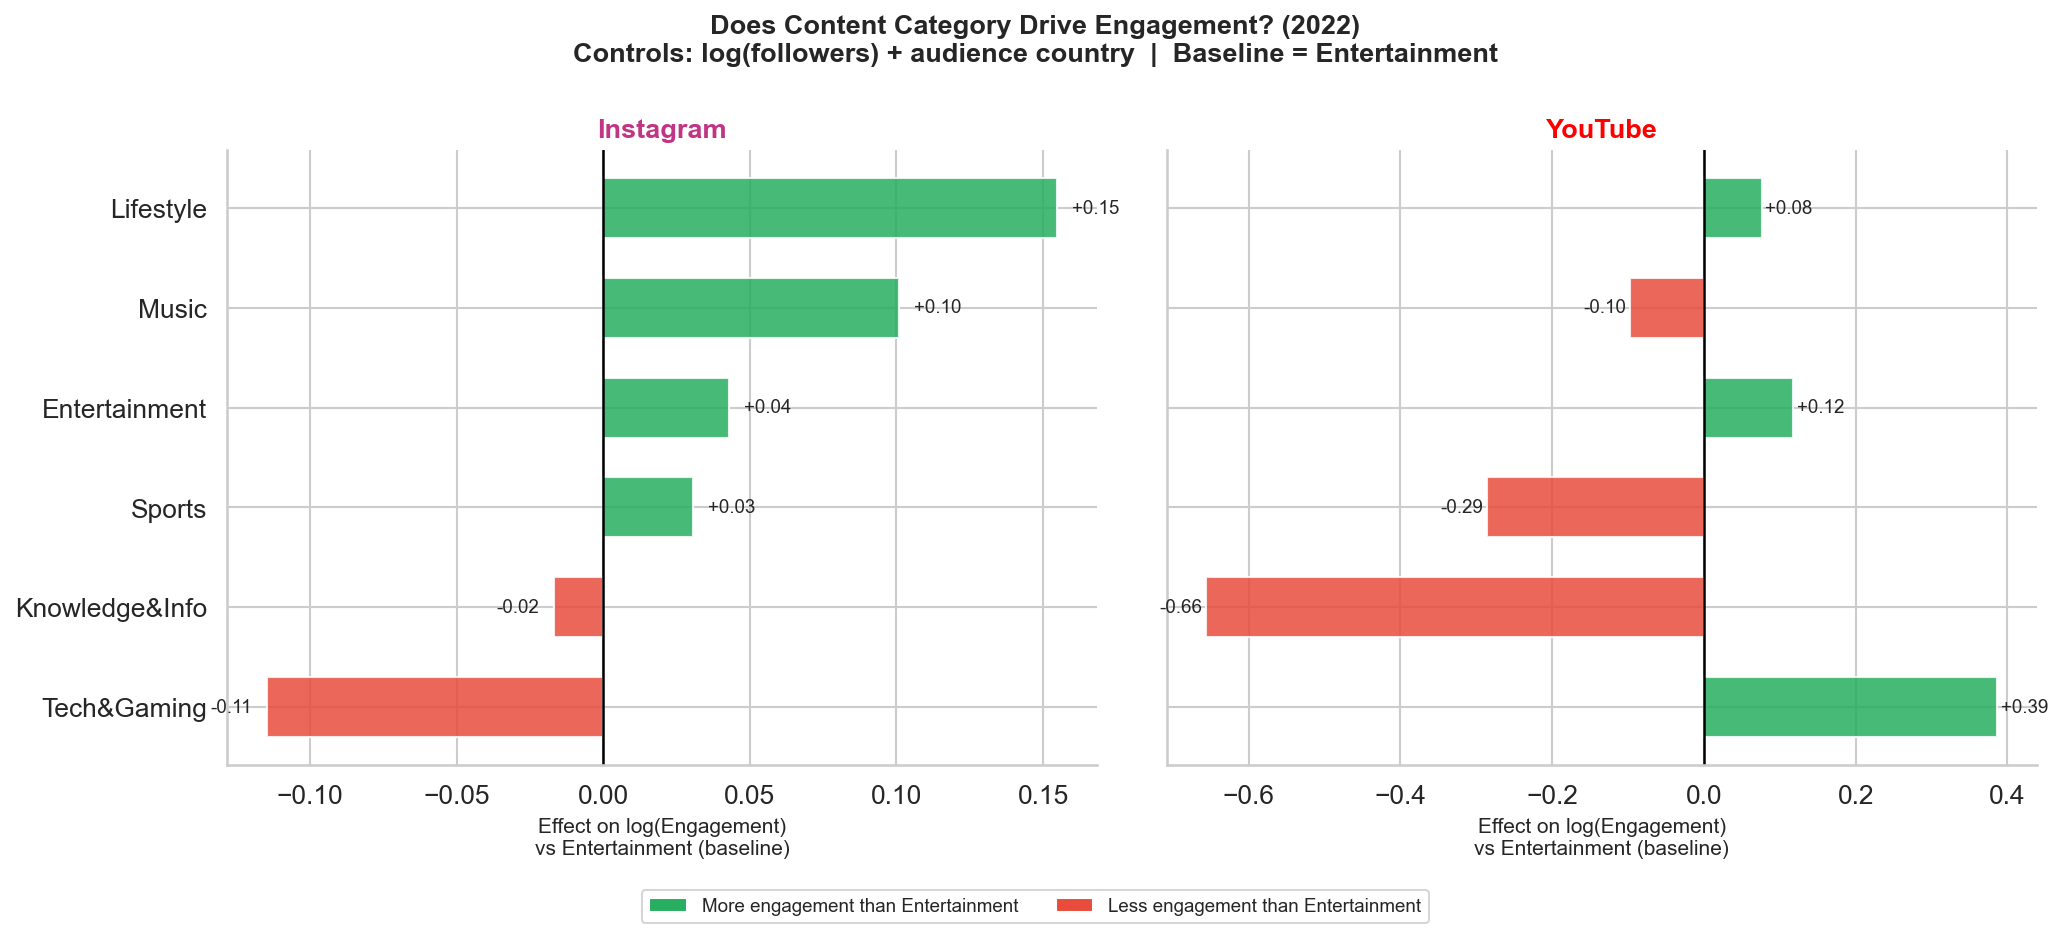
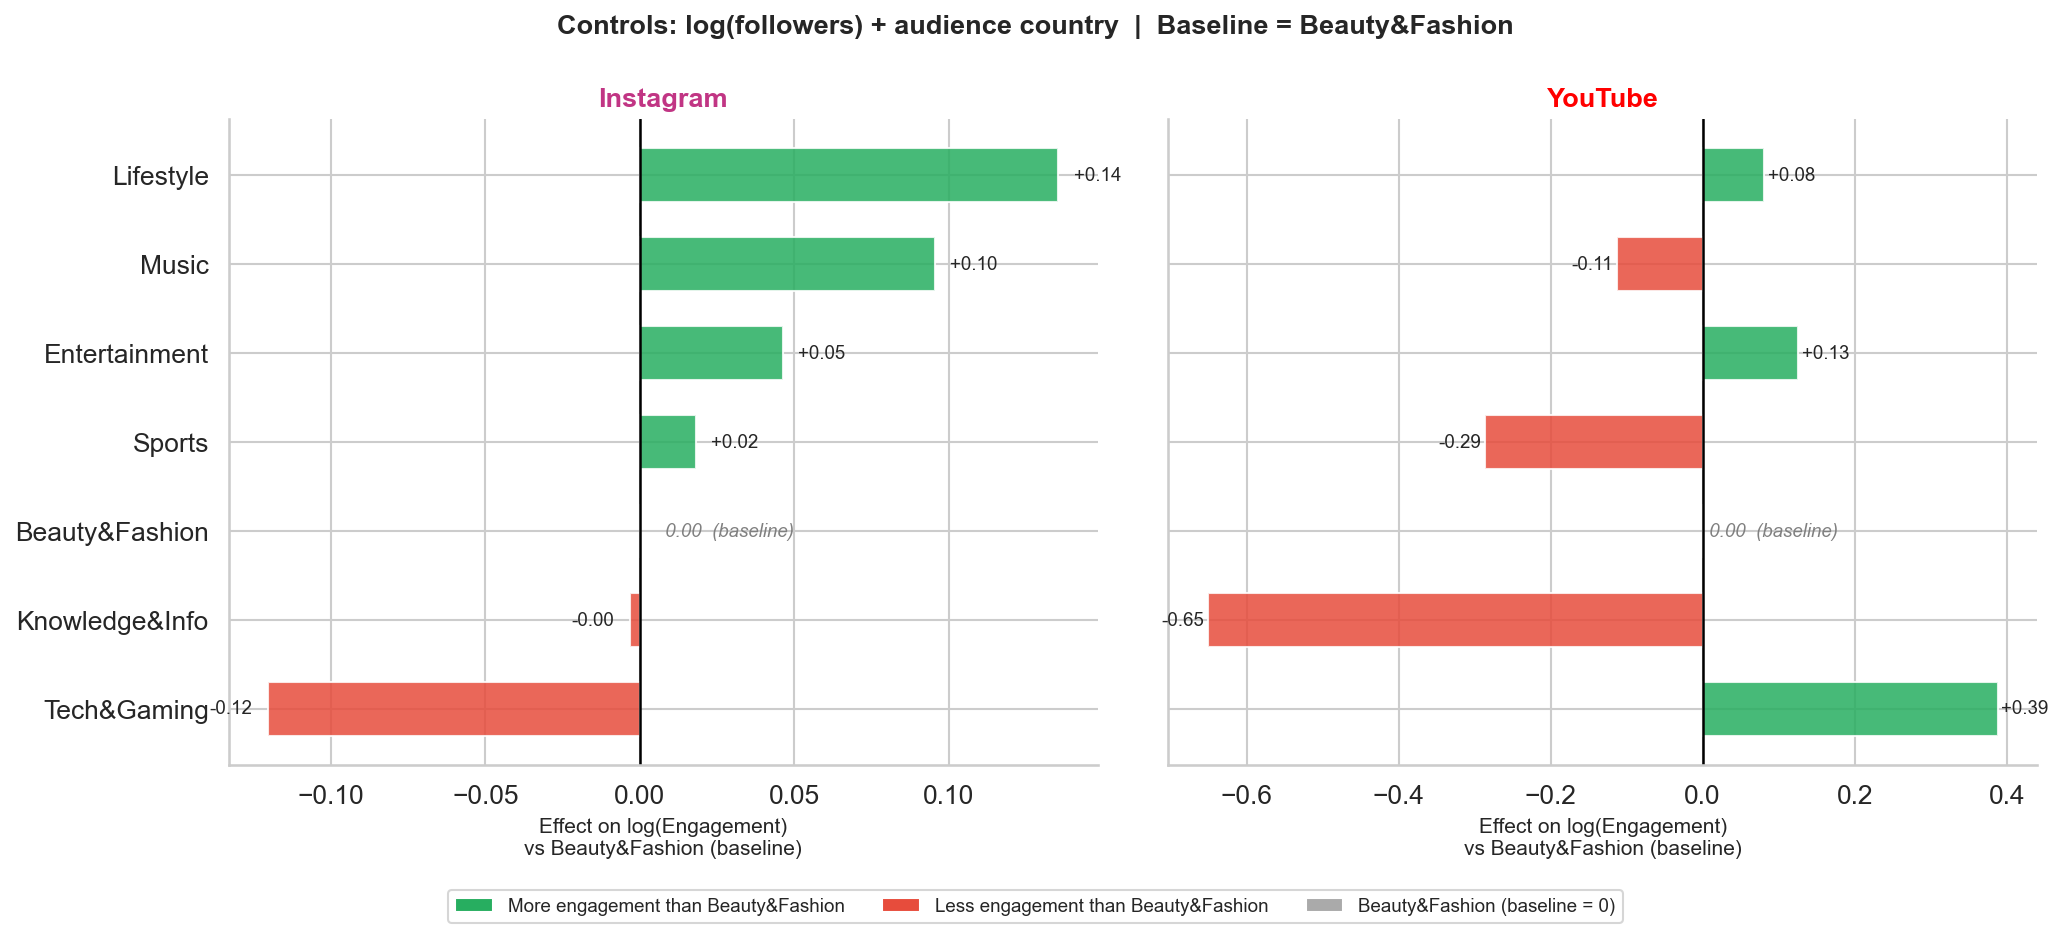
updated plots for rq1

diff --git a/Exploratory data analysis/rq1_engagement_analysis.py b/Exploratory data analysis/rq1_engagement_analysis.py
@@ -64,7 +64,7 @@ def sig_stars(p):
     if p < 0.05:  return "*"
     return "ns"
 
-def group_country(df, col, min_count=30):
+def group_country(df, col, min_count=10):
     counts = df[col].value_counts()
     keep = counts[counts >= min_count].index
     df = df.copy()
@@ -122,7 +122,7 @@ ols_rows = []
 for plat in ["Instagram","YouTube"]:
     sub = p1[p1["platform"] == plat]
     m = smf.ols(
-        "log_eng ~ log_fol + C(category_unified) + C(audience_country)",
+        "log_eng ~ log_fol + C(category_unified, Treatment('Beauty&Fashion')) + C(audience_country, Treatment('United States'))",
         data=sub).fit()
     ols_rows.append({
         "platform": plat,
@@ -184,7 +184,7 @@ for ax, row in zip(axes, ols_rows):
     ax.set_ylabel("Avg Engagement per Post" if plat=="Instagram" else "", fontsize=11)
 
 fig.suptitle(
-    "Does Follower Count Drive Engagement? (2022)\n"
+    # "Does Follower Count Drive Engagement? (2022)\n"
     "Each dot = one influencer  |  Line = OLS trend  |  β measures the strength",
     fontweight="bold", fontsize=13)
 plt.tight_layout()
@@ -241,7 +241,7 @@ cat_coefs = {}
 for r in ols_rows:
     plat, m = r["platform"], r["model"]
     coefs = {
-        k.replace("C(category_unified)[T.","").rstrip("]"): v
+        k.replace("C(category_unified, Treatment('Beauty&Fashion'))[T.","").rstrip("]"): v
         for k, v in m.params.items() if "category_unified" in k
     }
     cat_coefs[plat] = coefs
@@ -249,6 +249,8 @@ for r in ols_rows:
 coef_df = (pd.DataFrame(cat_coefs)
              .reindex([c for c in CAT_ORDER if c in pd.DataFrame(cat_coefs).index])
              .dropna(how="all").fillna(0))
+# add Beauty&Fashion row explicitly as 0 (it's the baseline)
+coef_df.loc["Beauty&Fashion"] = 0.0
 # sort by Instagram value
 coef_df = coef_df.sort_values("Instagram")
 savecsv(coef_df.round(4), "P1_category_coefficients.csv")
@@ -256,27 +258,34 @@ savecsv(coef_df.round(4), "P1_category_coefficients.csv")
 fig, axes = plt.subplots(1, 2, figsize=(14, 6), sharey=True)
 for ax, plat, color in zip(axes, ["Instagram","YouTube"], [IG_COL, YT_COL]):
     vals  = coef_df[plat]
-    bar_colors = ["#27ae60" if v >= 0 else "#e74c3c" for v in vals]
+    bar_colors = ["#aaaaaa" if idx == "Beauty&Fashion"
+                  else "#27ae60" if v > 0 else "#e74c3c"
+                  for idx, v in vals.items()]
     bars = ax.barh(coef_df.index, vals, color=bar_colors,
                    edgecolor="white", alpha=0.85, height=0.6)
     ax.axvline(0, color="black", linewidth=1.2)
-    for bar, val in zip(bars, vals):
-        xpos = val + 0.005 if val >= 0 else val - 0.005
-        ha   = "left" if val >= 0 else "right"
-        ax.text(xpos, bar.get_y() + bar.get_height()/2,
-                f"{val:+.2f}", va="center", ha=ha, fontsize=9)
+    for bar, (idx, val) in zip(bars, vals.items()):
+        if idx == "Beauty&Fashion":
+            ax.text(0.008, bar.get_y() + bar.get_height()/2,
+                    "0.00  (baseline)", va="center", ha="left", fontsize=9,
+                    color="gray", style="italic")
+        else:
+            xpos = val + 0.005 if val >= 0 else val - 0.005
+            ha   = "left" if val >= 0 else "right"
+            ax.text(xpos, bar.get_y() + bar.get_height()/2,
+                    f"{val:+.2f}", va="center", ha=ha, fontsize=9)
     ax.set_title(plat, fontweight="bold", fontsize=13, color=color)
-    ax.set_xlabel("Effect on log(Engagement)\nvs Entertainment (baseline)", fontsize=10)
+    ax.set_xlabel("Effect on log(Engagement)\nvs Beauty&Fashion (baseline)", fontsize=10)
     ax.axvline(0, color="gray", linewidth=0.8, zorder=0)
 
-# add green/red legend
-legend_els = [mpatches.Patch(facecolor="#27ae60", label="More engagement than Entertainment"),
-              mpatches.Patch(facecolor="#e74c3c", label="Less engagement than Entertainment")]
-fig.legend(handles=legend_els, loc="lower center", ncol=2,
+# legend
+legend_els = [mpatches.Patch(facecolor="#27ae60", label="More engagement than Beauty&Fashion"),
+              mpatches.Patch(facecolor="#e74c3c", label="Less engagement than Beauty&Fashion"),
+              mpatches.Patch(facecolor="#aaaaaa", label="Beauty&Fashion (baseline = 0)")]
+fig.legend(handles=legend_els, loc="lower center", ncol=3,
            fontsize=9, frameon=True, bbox_to_anchor=(0.5, -0.04))
 fig.suptitle(
-    "Does Content Category Drive Engagement? (2022)\n"
-    "Controls: log(followers) + audience country  |  Baseline = Entertainment",
+    "Controls: log(followers) + audience country  |  Baseline = Beauty&Fashion",
     fontweight="bold", fontsize=13)
 plt.tight_layout()
 savefig("P1_3_category_coef_2022.png")
@@ -285,16 +294,18 @@ savefig("P1_3_category_coef_2022.png")
 print("  P1-Fig4: country coefficients …")
 
 def extract_country_coefs(model):
-    """Extract significant country coefficients from OLS model."""
+    """Extract all country coefficients (excl. Other) from OLS model."""
     coefs = {}
     for k, v in model.params.items():
         if "audience_country" not in k:
             continue
-        country = k.replace("C(audience_country)[T.","").rstrip("]")
+        country = k.split("[T.")[1].rstrip("]")
+        if country == "Other":
+            continue
         coefs[country] = {"coef": v, "pval": model.pvalues[k]}
     df = pd.DataFrame(coefs).T
-    df = df[df["pval"] < 0.05]
-    df = df[df.index != "Other"]
+    # add US baseline row explicitly
+    df.loc["United States"] = {"coef": 0.0, "pval": 1.0}
     return df.sort_values("coef")
 
 cc_ig = extract_country_coefs(ols_rows[0]["model"])
@@ -303,40 +314,48 @@ cc_yt = extract_country_coefs(ols_rows[1]["model"])
 savecsv(cc_ig.round(4), "P1_country_coefficients_instagram.csv")
 savecsv(cc_yt.round(4), "P1_country_coefficients_youtube.csv")
 
-# reference country note: statsmodels drops the first alphabetical country
-# all coefficients are relative to that baseline — negative = lower than baseline
-ref_note = ("All values relative to the reference country\n"
-            "(first alphabetically, auto-chosen by regression).\n"
-            "Negative = lower engagement than that baseline.\n"
-            "Positive = higher engagement than that baseline.")
-
-fig, axes = plt.subplots(1, 2, figsize=(18, 7))
-for ax, cc_df, row, plat in zip(axes, [cc_ig, cc_yt], ols_rows, ["Instagram","YouTube"]):
+fig, axes = plt.subplots(1, 2, figsize=(18, 8))
+for ax, cc_df, plat in zip(axes, [cc_ig, cc_yt], ["Instagram","YouTube"]):
     color = PALETTE[plat]
-    bar_colors = ["#27ae60" if v >= 0 else "#e74c3c" for v in cc_df["coef"]]
+    bar_colors = ["#aaaaaa" if idx == "United States"
+                  else "#27ae60" if v > 0 else "#e74c3c"
+                  for idx, v in cc_df["coef"].items()]
     bars = ax.barh(cc_df.index, cc_df["coef"], color=bar_colors,
                    edgecolor="white", alpha=0.88, height=0.65)
     ax.axvline(0, color="black", linewidth=1.2)
 
-    for bar, val in zip(bars, cc_df["coef"]):
-        xpos = val + 0.005 if val >= 0 else val - 0.005
-        ha   = "left" if val >= 0 else "right"
-        ax.text(xpos, bar.get_y() + bar.get_height()/2,
-                f"{val:+.2f}", va="center", ha=ha, fontsize=8.5)
+    for bar, (idx, val) in zip(bars, cc_df["coef"].items()):
+        pval = cc_df.loc[idx, "pval"]
+        star = "***" if pval < 0.001 else "**" if pval < 0.01 else "*" if pval < 0.05 else ""
+        if idx == "United States":
+            ax.text(0.005, bar.get_y() + bar.get_height()/2,
+                    "0.00  (baseline)", va="center", ha="left",
+                    fontsize=8.5, color="gray", style="italic")
+        else:
+            xpos = val + 0.005 if val >= 0 else val - 0.005
+            ha   = "left" if val >= 0 else "right"
+            label = f"{val:+.2f} {star}".strip()
+            ax.text(xpos, bar.get_y() + bar.get_height()/2,
+                    label, va="center", ha=ha, fontsize=8.5)
 
     ax.set_title(plat, fontweight="bold", fontsize=13, color=color)
-    ax.set_xlabel("Effect on log(Engagement)  vs reference country", fontsize=10)
+    ax.set_xlabel("Effect on log(Engagement)  vs United States", fontsize=10)
     ax.set_ylabel("Audience Country", fontsize=10)
 
-# shared annotation on right
-axes[1].text(1.02, 0.98, ref_note,
+# legend
+legend_els = [mpatches.Patch(facecolor="#27ae60", label="Higher engagement than US"),
+              mpatches.Patch(facecolor="#e74c3c", label="Lower engagement than US"),
+              mpatches.Patch(facecolor="#aaaaaa", label="United States (baseline = 0)")]
+fig.legend(handles=legend_els, loc="lower center", ncol=3,
+           fontsize=9, frameon=True, bbox_to_anchor=(0.5, -0.02))
+axes[1].text(1.02, 0.98,
+             "* p<0.05  ** p<0.01  *** p<0.001\n(no star = not significant)",
              transform=axes[1].transAxes, ha="left", va="top", fontsize=8.5,
              bbox=dict(boxstyle="round,pad=0.5", facecolor="lightyellow",
                        edgecolor="gray", alpha=0.9))
-
 fig.suptitle(
     "Does Audience Country Affect Engagement? (2022)\n"
-    "Significant countries only (p < 0.05)  |  Controls: log(followers) + content category",
+    "Baseline = United States  |  Controls: log(followers) + content category",
     fontweight="bold", fontsize=13)
 plt.tight_layout()
 savefig("P1_4_country_coef_2022.png")
@@ -395,8 +414,7 @@ for ax, (plat, sub), row in zip(axes, data3, uncont_rows):
     ax.plot(xs, row["model"].predict(pd.DataFrame({"log_fol": xs})),
             color="black", linewidth=2.5)
     fmt_log_axis(ax, "y")
-    ax.set_xticks([5,6,7,8,9])
-    ax.set_xticklabels(["100K","1M","10M","100M","1B"], fontsize=8)
+    fmt_log_axis(ax, "x")
 
     ctrl_note = ("No controls\n(no category/country data)"
                  if plat == "TikTok" else "Uncontrolled\n(for comparison)")
@@ -660,7 +678,7 @@ for yr in ["2022","2026"]:
     sub = panel_clean.rename(columns={
         f"log_eng_{yr}":"log_eng", f"log_fol_{yr}":"log_fol"})
     m = smf.ols(
-        "log_eng ~ log_fol + C(category_unified) + C(audience_country)",
+        "log_eng ~ log_fol + C(category_unified, Treatment('Beauty&Fashion')) + C(audience_country, Treatment('United States'))",
         data=sub).fit()
     p3_rows.append({"year":yr, "beta":round(m.params["log_fol"],4),
                     "pval":round(m.pvalues["log_fol"],4),
@@ -720,7 +738,7 @@ print("  P3-Fig3: category coefficients panel …")
 cat_p3 = {}
 for r in p3_rows:
     yr, m = r["year"], r["model"]
-    coefs = {k.replace("C(category_unified)[T.","").rstrip("]"): v
+    coefs = {k.replace("C(category_unified, Treatment('Beauty&Fashion'))[T.","").rstrip("]"): v
              for k, v in m.params.items() if "category_unified" in k}
     cat_p3[yr] = coefs
 
@@ -746,15 +764,15 @@ for i, (cat, row) in enumerate(cp3_df.iterrows()):
 
 ax.axvline(0, color="black", linewidth=1.2)
 ax.set_yticks(y); ax.set_yticklabels(cp3_df.index, fontsize=10)
-ax.set_xlabel("Effect on log(Engagement) vs Entertainment (baseline)", fontsize=10)
+ax.set_xlabel("Effect on log(Engagement) vs Beauty&Fashion (baseline)", fontsize=10)
 ax.set_title(
     "YouTube: Category Effect on Engagement — 2022 vs 2026\n"
-    "Same 302 creators  |  Controls: log(subscribers) + audience country\n"
-    "All values negative = all categories underperform Entertainment",
+    "Same 406 creators  |  Controls: log(subscribers) + audience country\n"
+    "All values relative to Beauty&Fashion (baseline = 0)",
     fontweight="bold", fontsize=12)
 ax.legend(title="Year", fontsize=9)
 ax.text(0.99, 0.02,
-        "Tech&Gaming = least penalty (closest to Entertainment)\n"
+        "Tech&Gaming = closest to Beauty&Fashion\n"
         "Knowledge&Info = most penalised in both years",
         transform=ax.transAxes, ha="right", va="bottom",
         fontsize=8.5, color="gray", style="italic")

diff --git a/Exploratory data analysis/tiktok_ranking_volatility.py b/Exploratory data analysis/tiktok_ranking_volatility.py
@@ -1,0 +1,104 @@
+import pandas as pd
+import numpy as np
+import matplotlib
+matplotlib.use("Agg")
+import matplotlib.pyplot as plt
+
+raw_path = '/Users/draco/Desktop/2026 Spring/DS516/project/cross_platform_analysis/crude_dataset/kaggle_2022/'
+months = ['march', 'june', 'september', 'november', 'december']
+month_labels = ['Mar', 'Jun', 'Sep', 'Nov', 'Dec']
+PALETTE = {"Instagram": "#C13584", "YouTube": "#FF0000", "TikTok": "#010101"}
+
+configs = [
+    ('Instagram', 'instagram', 'handle_instagram'),
+    ('YouTube',   'youtube',   'handle_youtube'),
+    ('TikTok',    'tiktok',    'handle_tiktok'),
+]
+
+appearance_data = {}
+for plat, folder, col in configs:
+    frames = [pd.read_csv(raw_path + f'{folder}_{m}')[[col]] for m in months]
+    all_h = pd.concat(frames)[col].dropna().str.lower().str.strip()
+    appearance_data[plat] = all_h.value_counts()
+
+fig, axes = plt.subplots(1, 2, figsize=(16, 6.5))
+fig.subplots_adjust(top=0.92, bottom=0.12, left=0.07, right=0.97, wspace=0.35)
+
+# ── LEFT: grouped bar ─────────────────────────────────────────────────────────
+ax = axes[0]
+categories = ['Only once\n(1 month)', 'Occasional\n(2–4 months)', 'Consistent\n(all 5 months)']
+bar_positions = np.arange(3)
+width = 0.22
+
+for i, (plat, _, _) in enumerate(configs):
+    counts = appearance_data[plat]
+    total  = len(counts)
+    vals   = [
+        (counts == 1).sum() / total * 100,
+        ((counts >= 2) & (counts <= 4)).sum() / total * 100,
+        (counts == 5).sum() / total * 100,
+    ]
+    color = PALETTE[plat]
+    bars = ax.bar(bar_positions + i*width, vals, width,
+                  label=plat, color=color, alpha=0.88, edgecolor='white')
+    for bar, v in zip(bars, vals):
+        ax.text(bar.get_x() + bar.get_width()/2,
+                bar.get_height() + 0.5,
+                f'{v:.0f}%', ha='center', va='bottom',
+                fontsize=8, fontweight='bold', color=color)
+
+ax.set_xticks(bar_positions + width)
+ax.set_xticklabels(categories, fontsize=10)
+ax.set_ylabel('% of unique accounts', fontsize=11)
+ax.set_ylim(0, 78)
+ax.set_title('How Long Did Each Account Stay\nin the Top 1,000?', fontweight='bold', fontsize=12)
+ax.legend(fontsize=9, loc='upper right')
+
+ax.annotate('TikTok: 41% appear\nonly once',
+            xy=(0 + 2*width, 41), xytext=(0.55, 60),
+            xycoords=('data', 'data'), textcoords=('data', 'data'),
+            fontsize=8.5, color=PALETTE['TikTok'], fontweight='bold',
+            arrowprops=dict(arrowstyle='->', color=PALETTE['TikTok'], lw=1.5))
+
+# ── RIGHT: overlap per month ───────────────────────────────────────────────────
+ax2 = axes[1]
+x_pos = np.arange(len(months))
+
+all_overlaps = {}
+for plat, folder, col in configs:
+    sets = {m: set(pd.read_csv(raw_path + f'{folder}_{m}')[col]
+                     .dropna().str.lower().str.strip())
+            for m in months}
+    overlaps = [None] + [
+        len(sets[m1] & sets[m2]) / len(sets[m1] | sets[m2]) * 100
+        for m1, m2 in zip(months, months[1:])
+    ]
+    all_overlaps[plat] = overlaps
+
+max_val = max(v for vals in all_overlaps.values() for v in vals if v is not None)
+
+for plat, folder, col in configs:
+    overlaps = all_overlaps[plat]
+    color = PALETTE[plat]
+    xs = x_pos[1:]
+    ys = overlaps[1:]
+    ax2.plot(xs, ys, marker='o', color=color,
+             linewidth=2.5, markersize=8, label=plat)
+    for x, y in zip(xs, ys):
+        va = 'bottom' if plat != 'TikTok' else 'top'
+        offset = 1.5 if plat != 'TikTok' else -1.5
+        ax2.text(x, y + offset, f'{y:.0f}%', ha='center', va=va,
+                 fontsize=8.5, color=color, fontweight='bold')
+
+ax2.set_xticks(x_pos[1:])
+ax2.set_xticklabels(month_labels[1:], fontsize=11)
+ax2.set_ylabel('Jaccard overlap with previous month (%)', fontsize=11)
+ax2.set_ylim(0, max_val + 12)
+ax2.set_title('How Stable Is the Top 1,000\nMonth-to-Month?', fontweight='bold', fontsize=12)
+ax2.legend(fontsize=9, loc='lower right')
+ax2.set_xlabel('Month (2022)', fontsize=11)
+
+out = '/Users/draco/Desktop/2026 Spring/DS516/project/cross_platform_analysis/Exploratory data analysis/rq1_figures/tiktok_ranking_volatility.png'
+plt.savefig(out, dpi=150, bbox_inches='tight')
+plt.close()
+print('Saved:', out)

diff --git a/Exploratory data analysis/tempCodeRunnerFile.py b/Exploratory data analysis/tempCodeRunnerFile.py
@@ -1,0 +1,1 @@
+"Does Follower Count Drive Engagement? (2022)\n"
